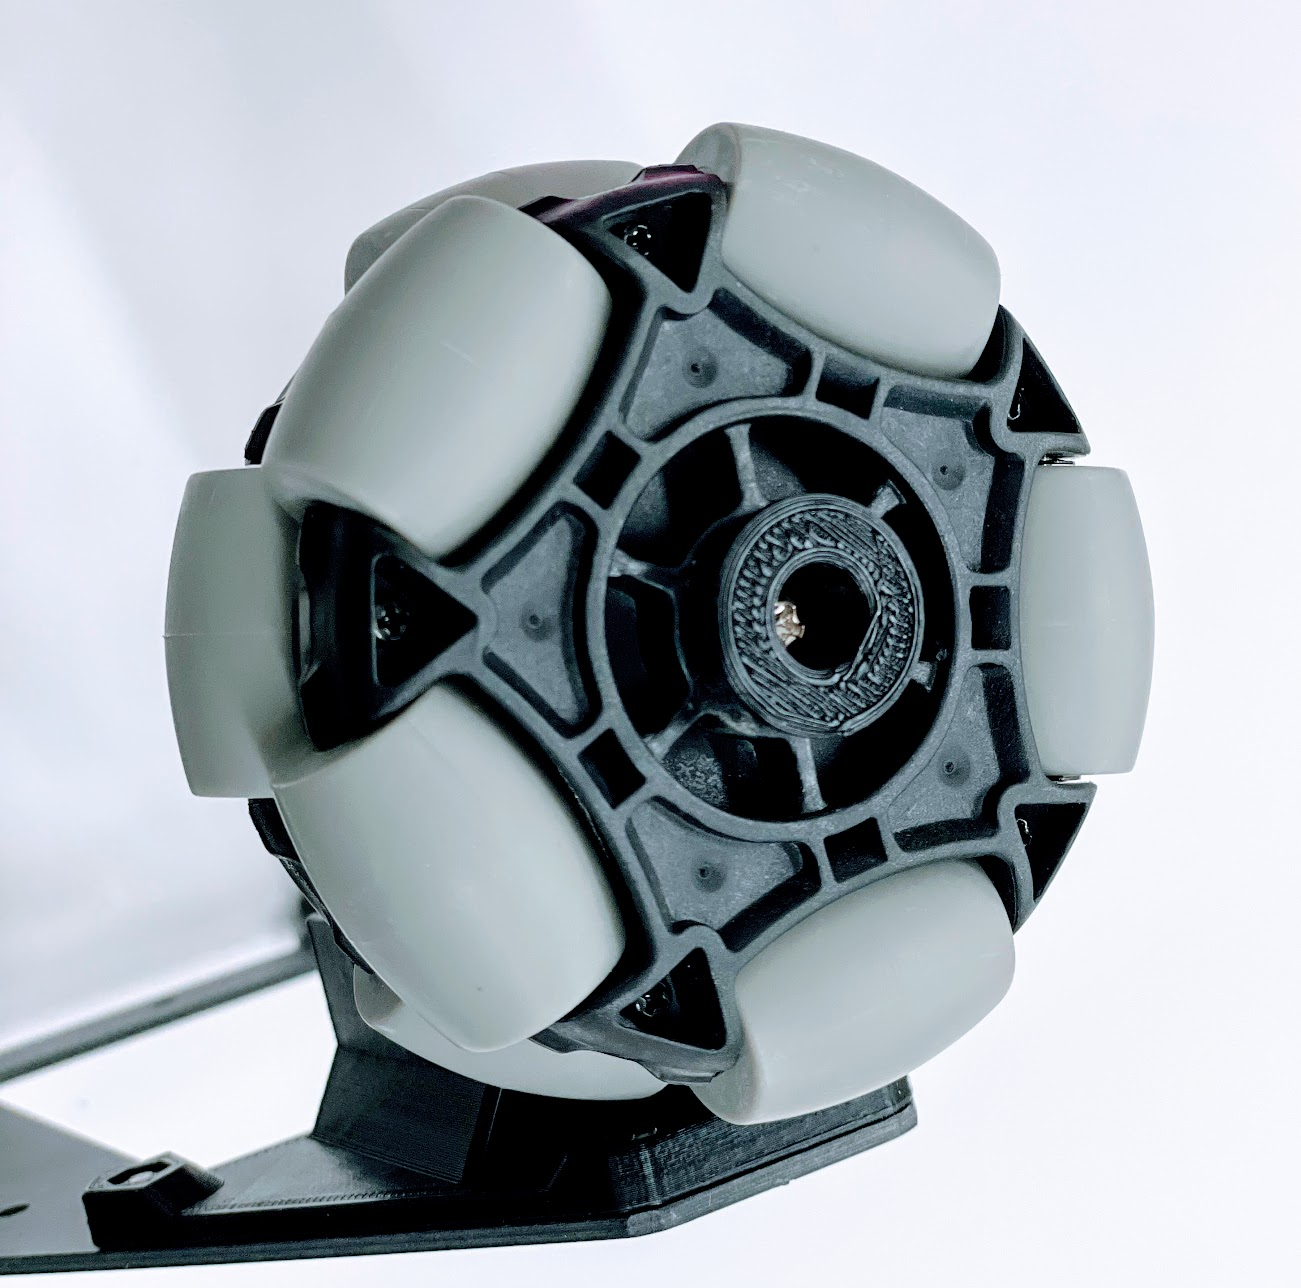
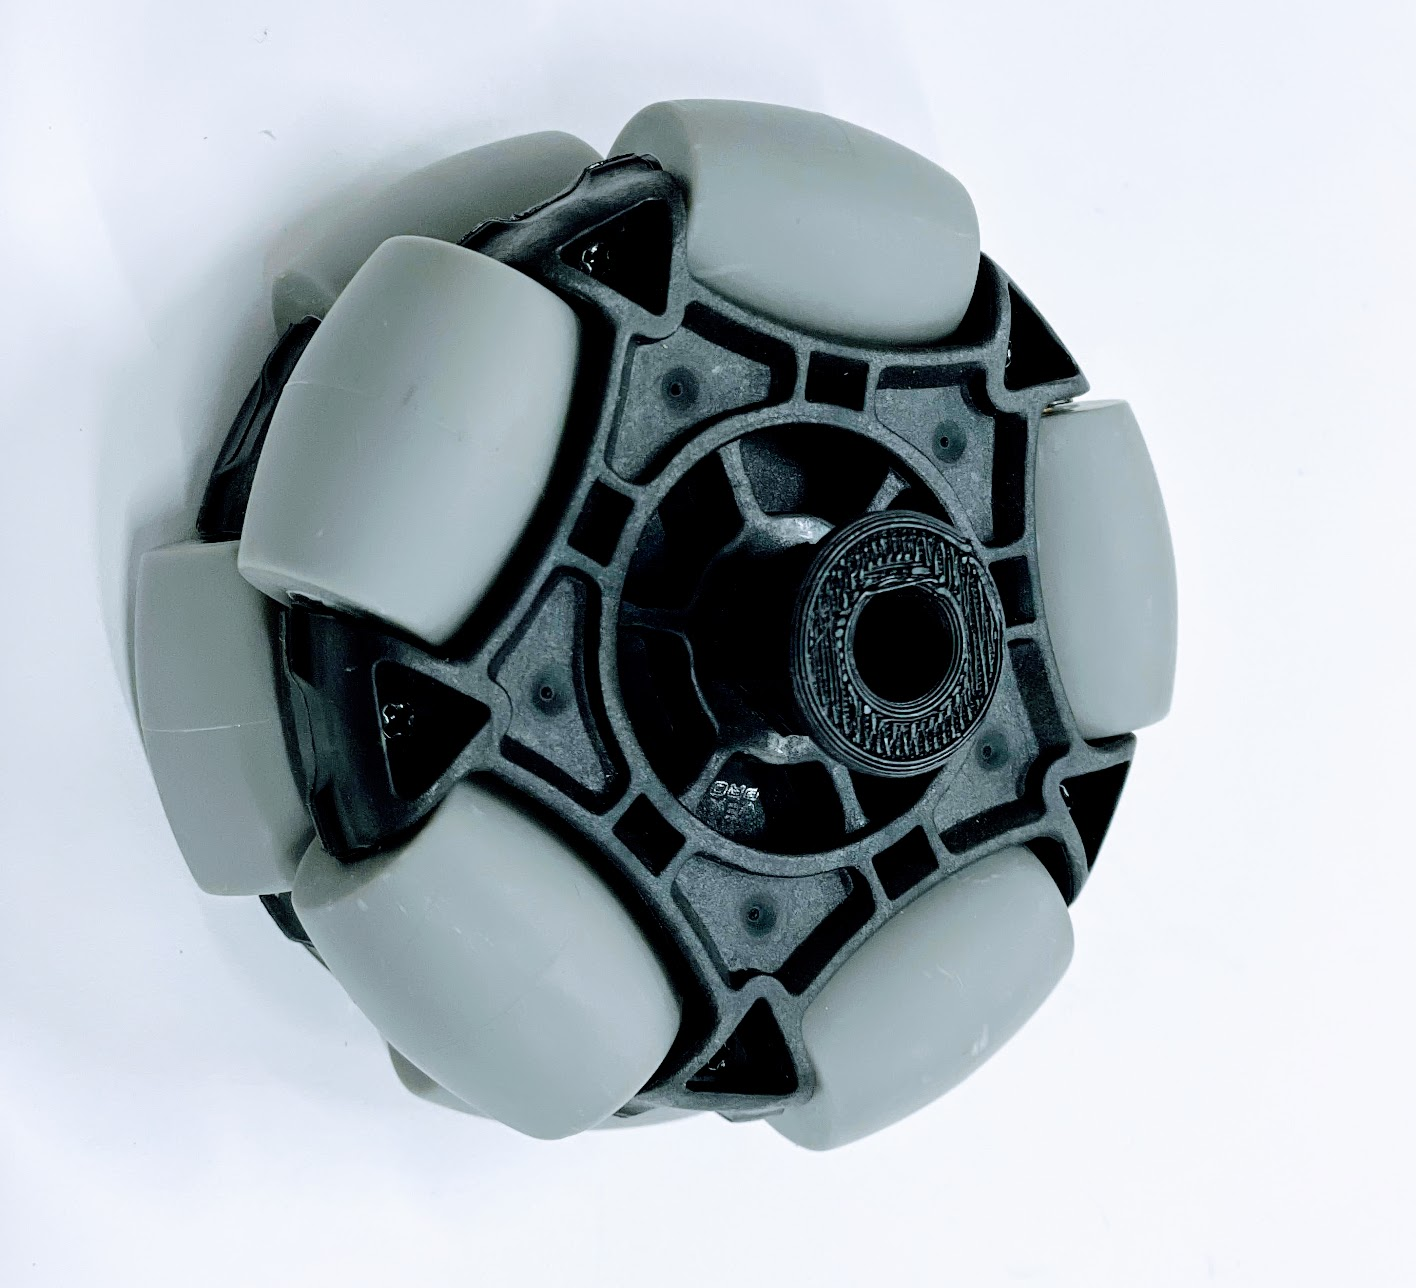
Deployed  with MkDocs version: 1.1.2

diff --git a/00.Build/03.build/index.html b/00.Build/03.build/index.html
@@ -646,6 +646,7 @@
 <p><img alt="" src="../img/mount_wheel001.jpg" /></p>
 <p><img alt="" src="../img/mount_wheel002.jpg" /></p>
 <p><img alt="" src="../img/mount_wheel003.jpg" /></p>
+<p><img alt="" src="../img/mount_wheel004.jpg" /></p>
 <h2 id="_5">サーボの配置と配線</h2>
 <p><img alt="" src="../img/ids001.jpg" /></p>
 <p><img alt="" src="../img/ids002.jpg" /></p>
